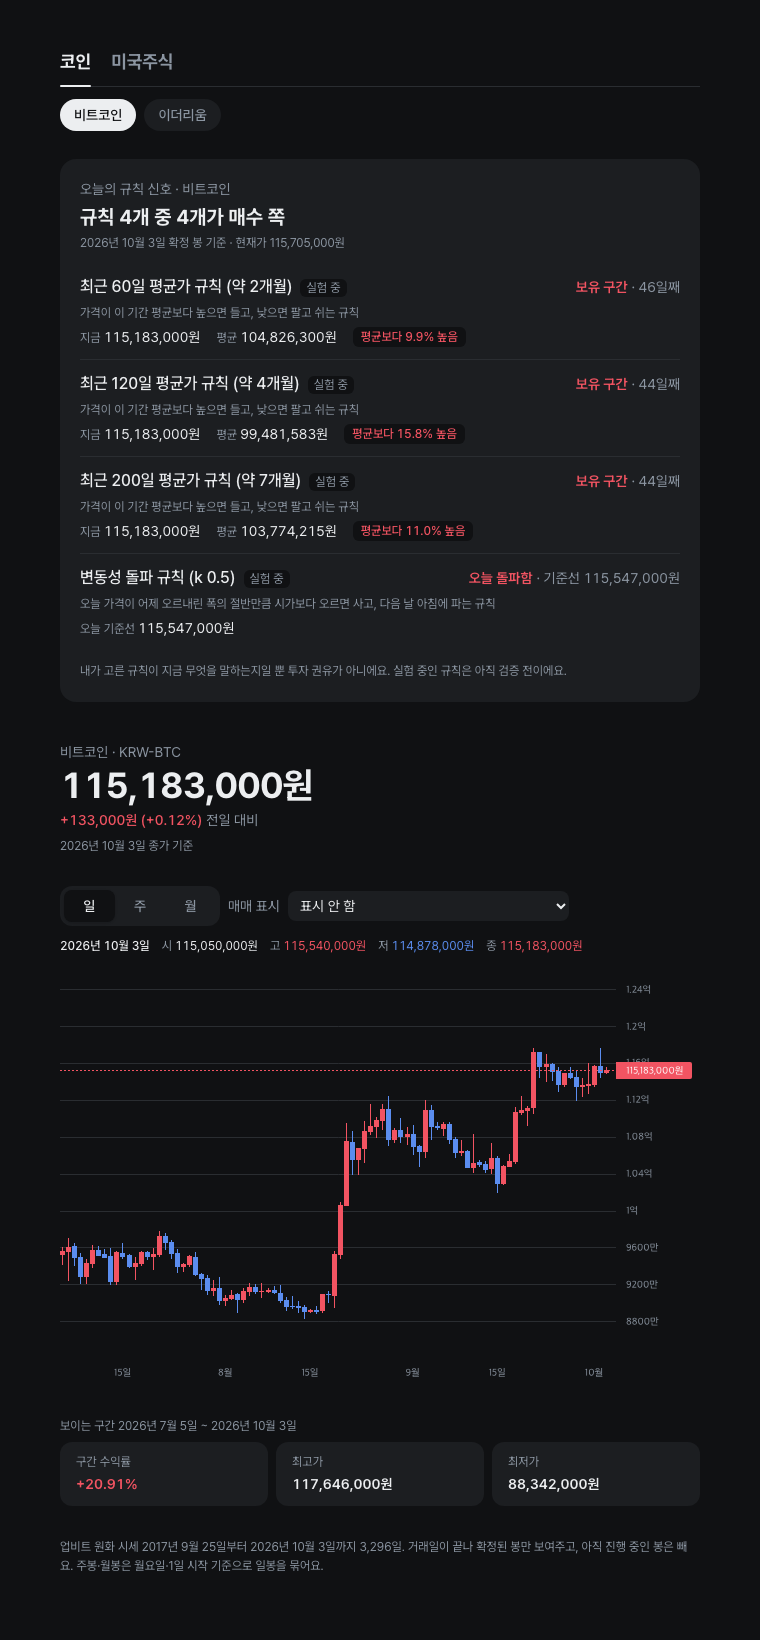
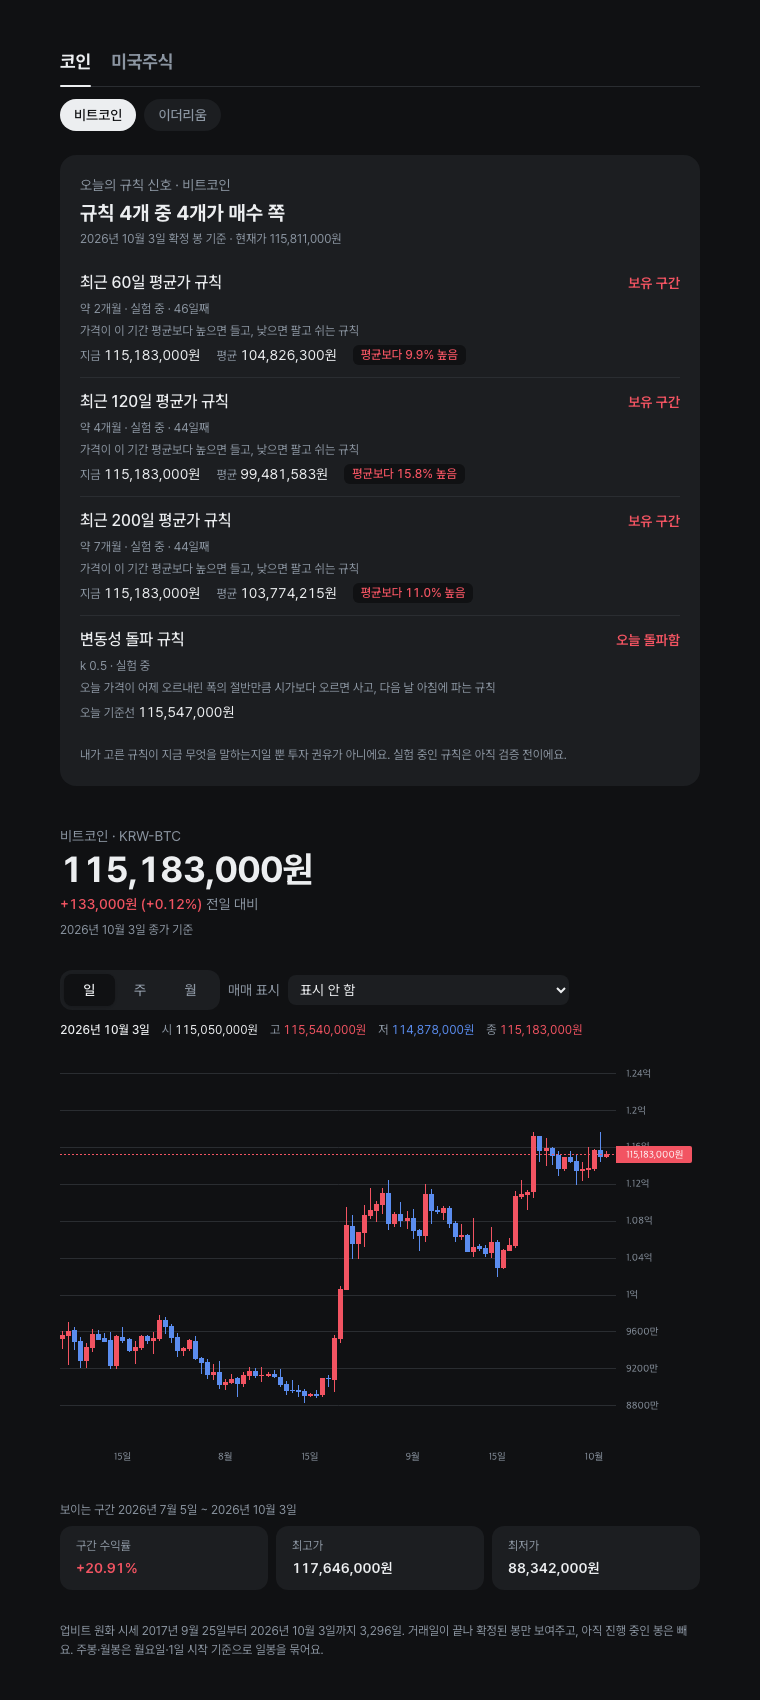
fix(web): 모바일에서 규칙 이름·상태 줄바꿈과 칩 스크롤 막대
- 좁은 화면에서 규칙 이름과 상태가 한 줄에 몰려 줄바꿈이 어색해서, 첫 줄은 짧은 이름 + 상태만, 기간·실험 여부·며칠째는 둘째 줄로 내림
- 변동성 돌파의 기준선은 아래 줄에 이미 있어 메타 줄에서 중복 제거
- 종목 칩 가로 스크롤 막대가 모바일·데스크톱에서 보여 숨김
- README 화면 캡처 갱신

diff --git a/web/src/components/signal-card.tsx b/web/src/components/signal-card.tsx
@@ -1,7 +1,7 @@
 import type { components } from "@/lib/api";
 import { type Currency, formatDate, formatPrice } from "@/lib/format";
 import type { MarketInfo } from "@/lib/markets";
-import { ruleDescription, ruleName } from "@/lib/rules";
+import { ruleDescription, ruleParam, ruleShortName } from "@/lib/rules";
 
 type Signals = components["schemas"]["SignalsOut"];
 type Signal = components["schemas"]["SignalOut"];
@@ -52,26 +52,18 @@ function SignalRow({ signal, info }: { signal: Signal; info: MarketInfo }) {
   const currency: Currency = info.currency;
   const price = (value: string) => formatPrice(Number(value), currency);
   const stance = STANCE[signal.stance];
-  const detail = signal.trigger
-    ? `기준선 ${price(signal.trigger)}`
-    : signal.days
-      ? `${signal.days}일째`
-      : null;
+  const detail = signal.days ? `${signal.days}일째` : null;
 
+  const meta = [ruleParam(signal.strategy, info.group), signal.status, detail].filter(Boolean).join(" · ");
+
+  // 좁은 화면에서 이름·상태가 줄바꿈으로 쪼개지지 않게 첫 줄엔 짧은 이름과 상태만
   return (
     <li className="space-y-1.5 py-3">
       <div className="flex items-baseline justify-between gap-3">
-        <p className="font-medium">
-          {ruleName(signal.strategy, info.group)}
-          <span className="ml-2 rounded-md bg-background px-1.5 py-0.5 text-xs font-normal text-muted">
-            {signal.status}
-          </span>
-        </p>
-        <p className={`shrink-0 text-sm font-semibold ${stance.tone}`}>
-          {stance.label}
-          {detail && <span className="ml-1 font-normal text-muted tabular-nums">· {detail}</span>}
-        </p>
+        <p className="min-w-0 font-medium">{ruleShortName(signal.strategy, info.group)}</p>
+        <p className={`shrink-0 text-sm font-semibold ${stance.tone}`}>{stance.label}</p>
       </div>
+      <p className="text-xs text-muted tabular-nums">{meta}</p>
       <p className="text-xs text-muted">{ruleDescription(signal.strategy)}</p>
       {signal.reference ? (
         <ReferenceLine close={price(signal.close)} reference={price(signal.reference)} gap={Number(signal.close) / Number(signal.reference) - 1} />

diff --git a/web/src/lib/rules.ts b/web/src/lib/rules.ts
@@ -14,6 +14,21 @@ export const ruleName = (spec: string, group: MarketGroup) => {
   return spec;
 };
 
+// 좁은 화면에서 한 줄에 들어가도록 이름은 짧게, 기간·파라미터는 따로
+export const ruleShortName = (spec: string, group: MarketGroup) => {
+  const [name, arg] = spec.split("-");
+  if (name === "ma") return `최근 ${arg}${group === "stock" ? "거래일" : "일"} 평균가 규칙`;
+  if (name === "vb") return "변동성 돌파 규칙";
+  return ruleName(spec, group);
+};
+
+export const ruleParam = (spec: string, group: MarketGroup) => {
+  const [name, arg] = spec.split("-");
+  if (name === "ma") return `약 ${months(Number(arg), group)}개월`;
+  if (name === "vb") return `k ${arg}`;
+  return null;
+};
+
 export const ruleDescription = (spec: string) => {
   const [name, arg] = spec.split("-");
   if (name === "ma") return "가격이 이 기간 평균보다 높으면 들고, 낮으면 팔고 쉬는 규칙";

diff --git a/web/src/components/market-switcher.tsx b/web/src/components/market-switcher.tsx
@@ -22,7 +22,7 @@ export function MarketSwitcher({ current, children }: { current: string; childre
     <div className="space-y-6">
       <div className="space-y-3">
         <GroupTabs value={selected.group} onChange={(group) => go(marketsOf(group)[0].market)} />
-        <div className="-mx-4 flex gap-2 overflow-x-auto px-4 pb-1" role="tablist" aria-label="종목">
+        <div className="no-scrollbar -mx-4 flex gap-2 overflow-x-auto px-4" role="tablist" aria-label="종목">
           {marketsOf(selected.group).map((m) => (
             <button
               key={m.market}

diff --git a/web/src/app/globals.css b/web/src/app/globals.css
@@ -37,3 +37,11 @@ body {
   background: var(--background);
   color: var(--foreground);
 }
+
+/* 옆으로 넘기는 칩 줄 — 스크롤은 되고 막대만 숨김 */
+.no-scrollbar {
+  scrollbar-width: none;
+}
+.no-scrollbar::-webkit-scrollbar {
+  display: none;
+}
